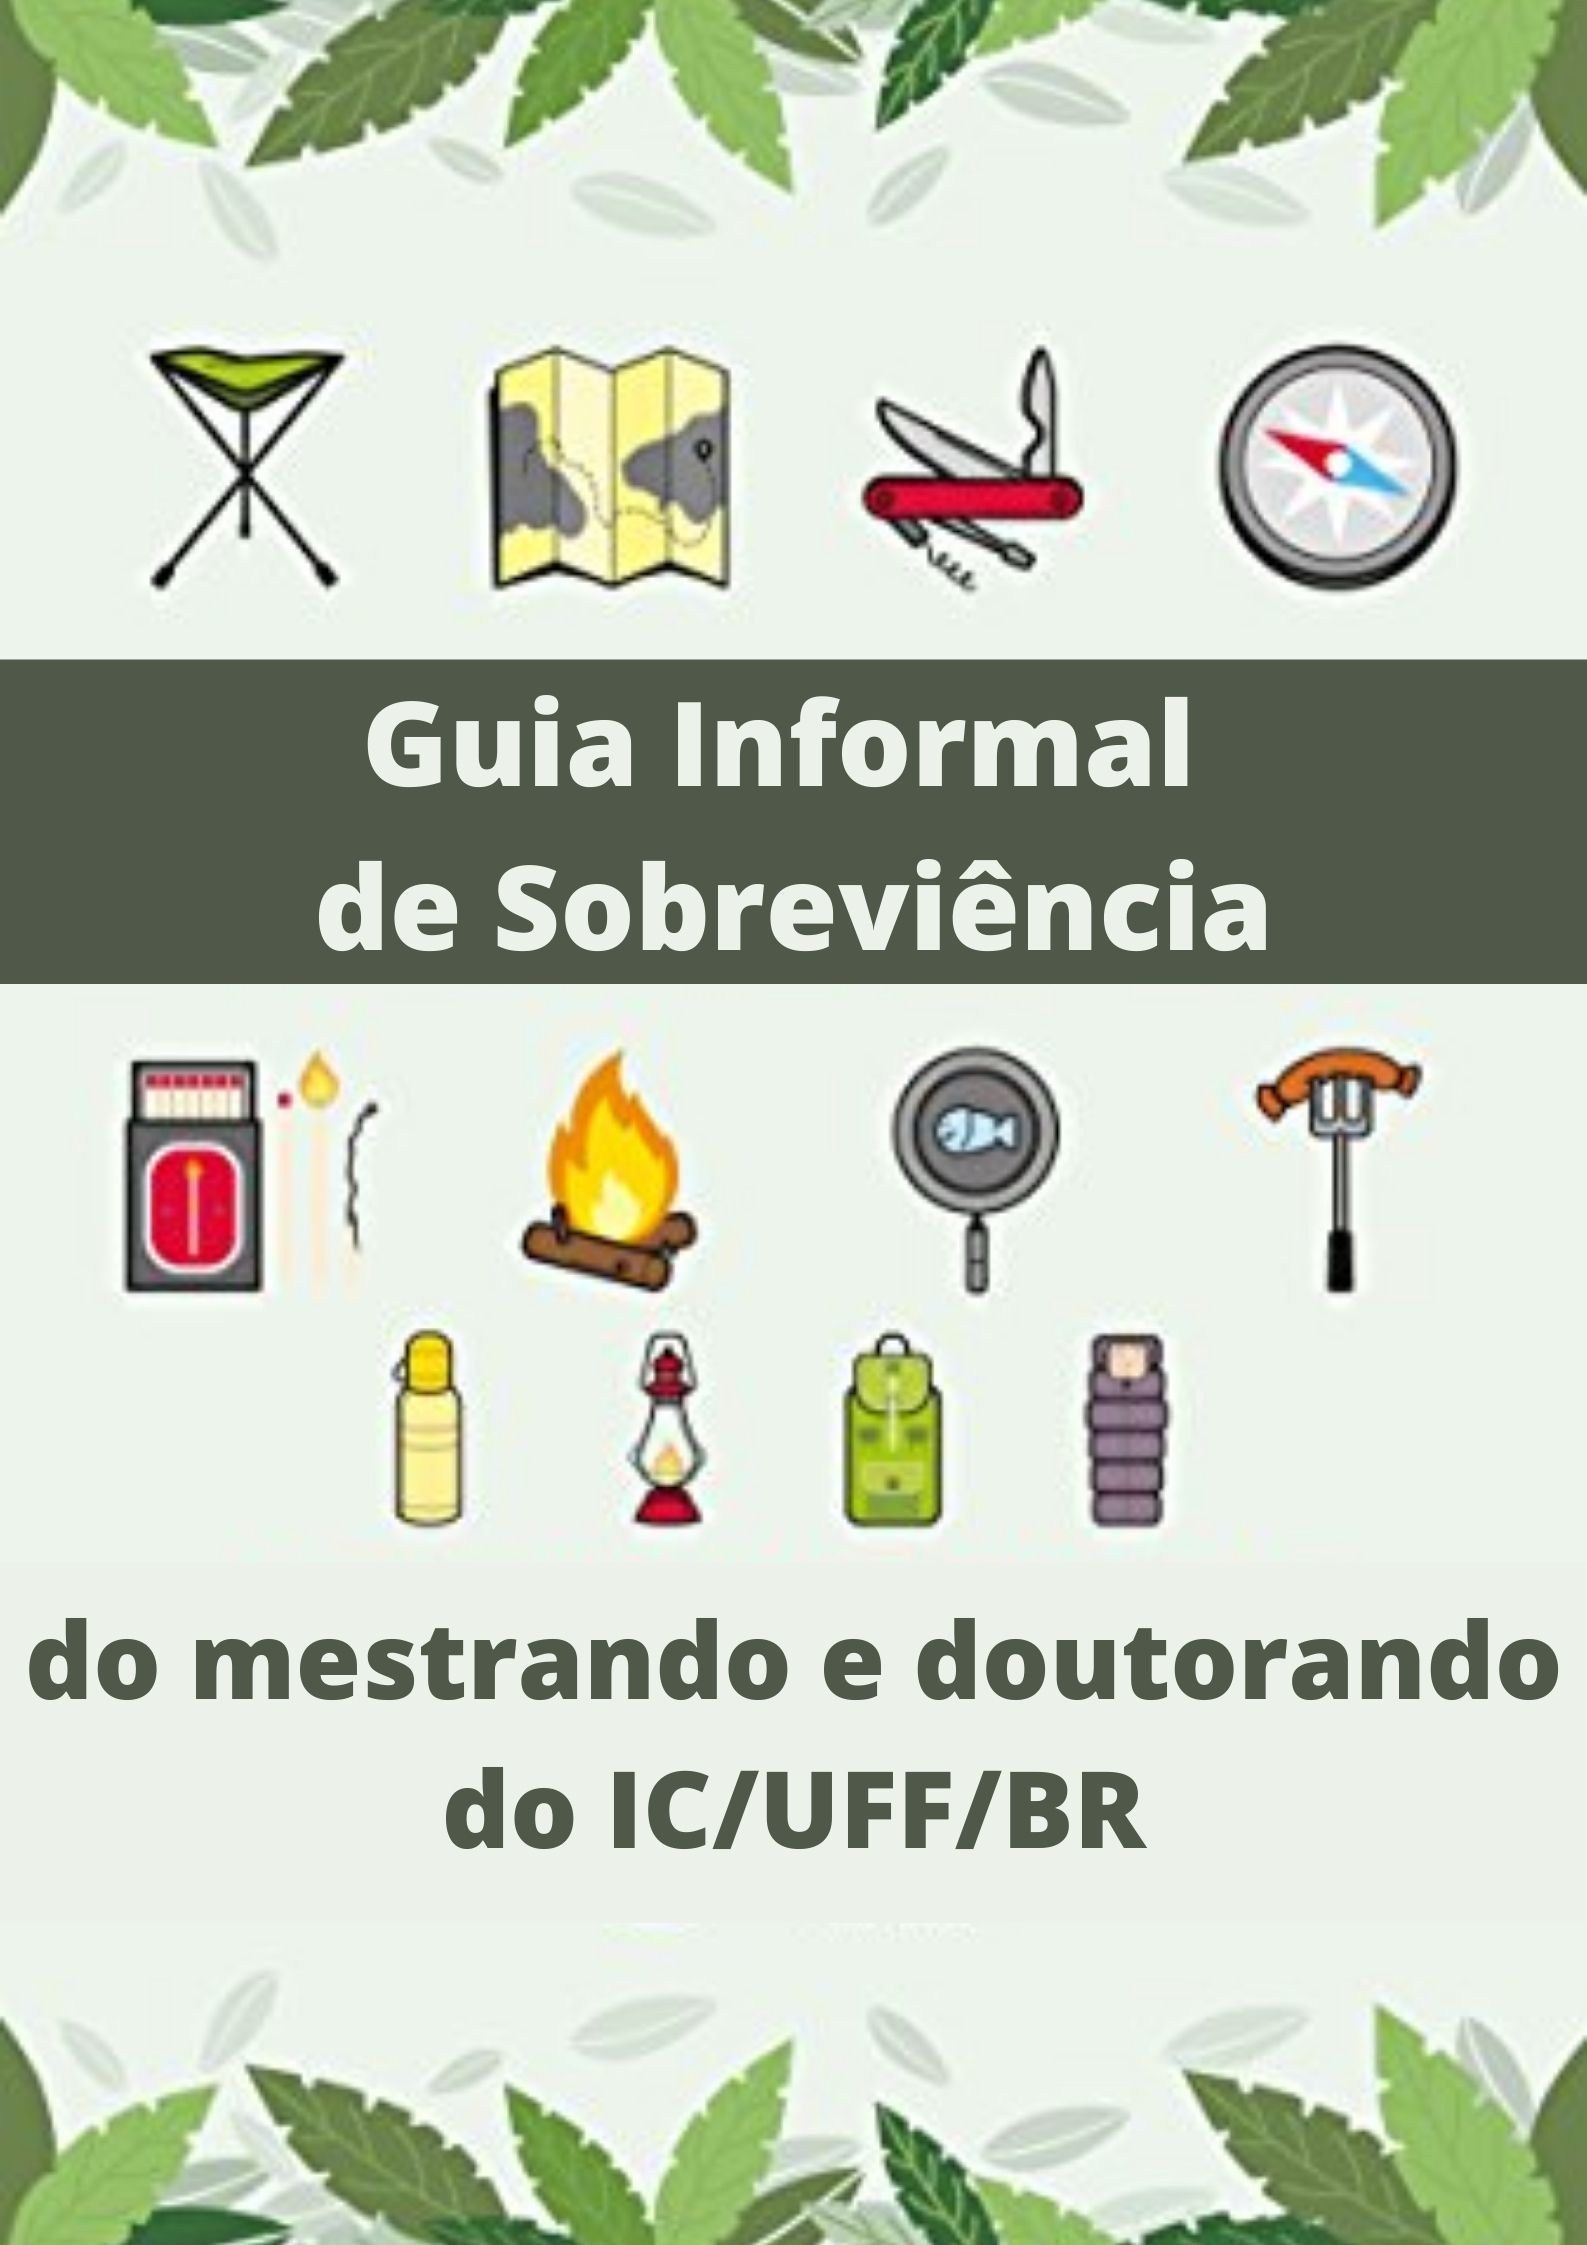
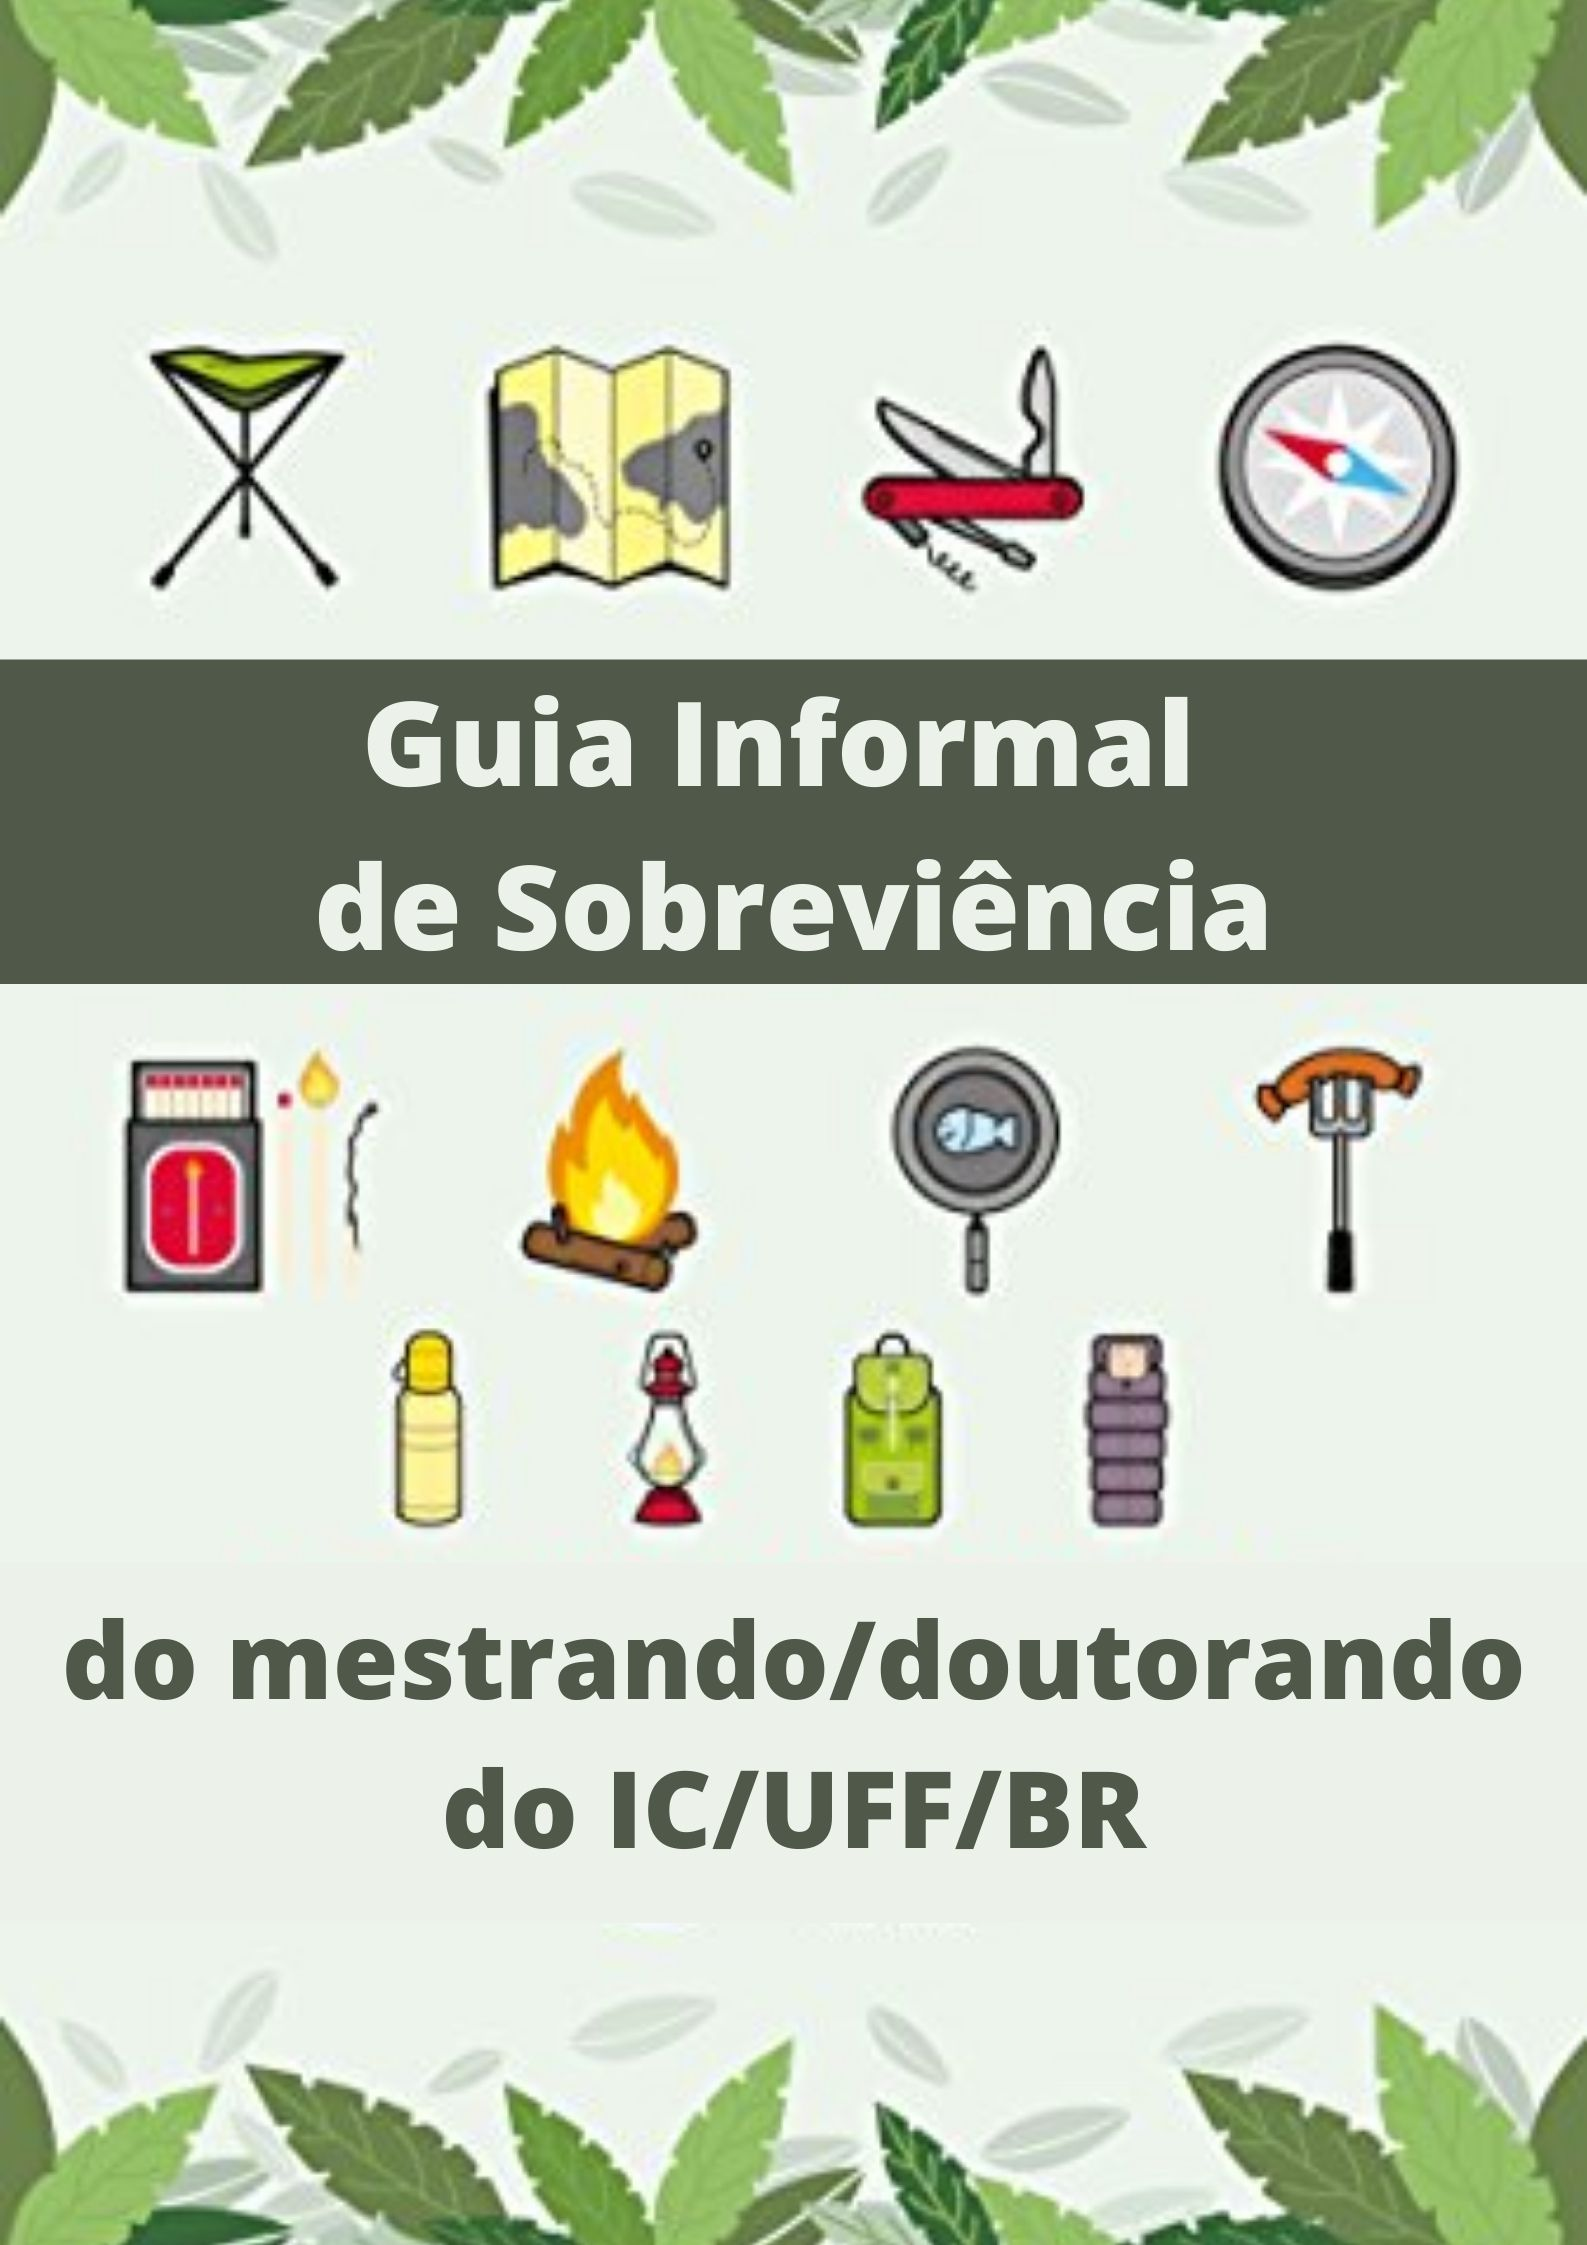
guia

Changed region(s): [[0.1853, 0.7171, 0.988, 0.7795], [0.0, 0.7171, 0.1544, 0.7795]]

diff --git a/README.md b/README.md
@@ -5,7 +5,7 @@
 </p>
 
 
-Saudações pequeno gafanhoto, se você chegou até aqui isso significa que você ou é aluno de mestrado e doutorado no Instituto de Computação (IC) da Universidade Federal Fluminense (UFF) ou você quer estudar no IC/BR. Independentemente de qual seja o caso, meus parabéns, o IC está entre os melhores lugares do mundo para se estudar! Porém, existem várias "complexidades" que podem tornar sua vida miserável, para dizer o mínimo. Por conta disso, algumas almas que já vagaram ou que estão vagando por aqui resolveram escrevem um 'compendium' de dicas que pode tornar sua vida menos difícil. 
+Saudações pequeno gafanhoto, se você chegou até aqui isso significa que você ou é aluno de mestrado / doutorado no Instituto de Computação (IC) da Universidade Federal Fluminense (UFF) ou você quer estudar no IC/UFF. Independentemente de qual seja o caso, meus parabéns, o IC está entre os melhores lugares do mundo para se estudar! Porém, existem várias "complexidades" que podem tornar sua vida miserável, para dizer o mínimo. Por conta disso, algumas almas que já vagaram ou que estão vagando por aqui resolveram escrevem um 'compendium' de dicas que pode tornar sua vida menos difícil. 
 
 Essas dicas começaram a ser escritas por alguém em 2010, não sei quem foi mas o título era: * Manual de Sobrevivência do Calouro da Pós-Graduação do IC/UFF
 99 dicas úteis – O GUIA DEFINITIVO *. 
@@ -18,16 +18,19 @@ O documento original é esse aqui:  https://github.com/anselmobattisti/guia-de-s
 * O IC/UFF/BR NÃO TEM NENHUMA RESPONSABILIDADE PELO QUE ESTÁ ESCRITO AQUI
 * ESSE MATERIAL É FEITO DE FORMA COLABORATIVA
 * LEIA POR SUA CONTA E RISCO
-* Se achou algo errado, incosistente por favor ajude a corrigir
+* Se achou algo errado, inconsistente por favor ajude a corrigir
 
 ### Como Posso Contriduir?
 
 * Ajudar ao outro é uam das melhores formas de tornar o mundo um lugar melhor, essa é a alma da ciência.
-* Se você quer ajudar corrigindo ou acrescentando coisas a este guia basta clonar este repositório e enviar um pull request que ele será inserido neste guia. Se você não como fazer isso, de uma lida neste tutorial https://www.digitalocean.com/community/tutorials/como-criar-um-pull-request-no-github-pt
+
+* Se você quer ajudar corrigindo ou acrescentando coisas a este guia basta clonar este repositório e enviar um pull request. Se você não como fazer isso, de uma lida neste tutorial https://www.digitalocean.com/community/tutorials/como-criar-um-pull-request-no-github-pt
+
+* Aprender a usar o Git será util na sua pesquisa. Não dissemos que ajudar aos outros era bom :)!
 
 Dado todos os avisos, vamos começar com o .....
 
-# Guia Informal de Sobrevivência ao Mestrando e Doutorando no ICC/UFF/BR
+# Guia Informal de Sobrevivência do Mestrando/Doutorando no ICC/UFF/BR
 
 ## Você é o Seu Maior Ativo!
 
